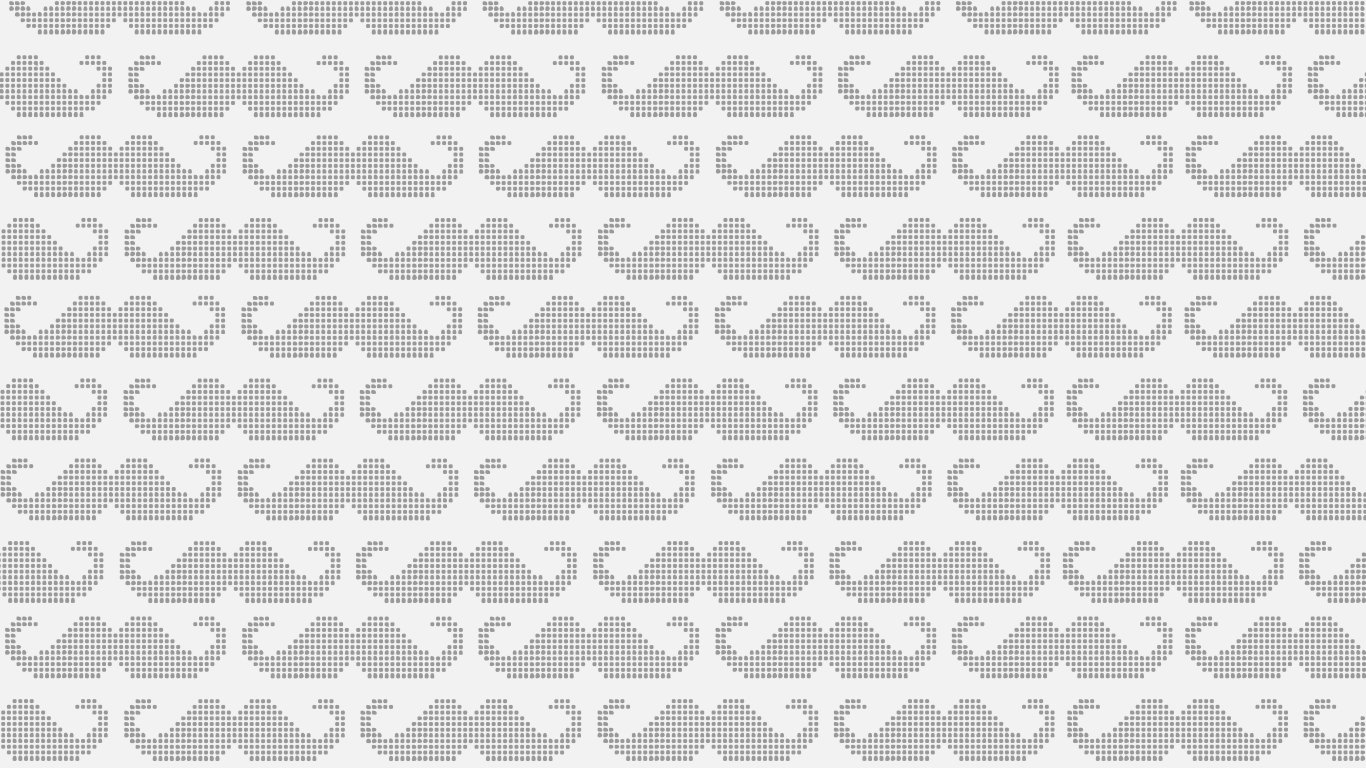
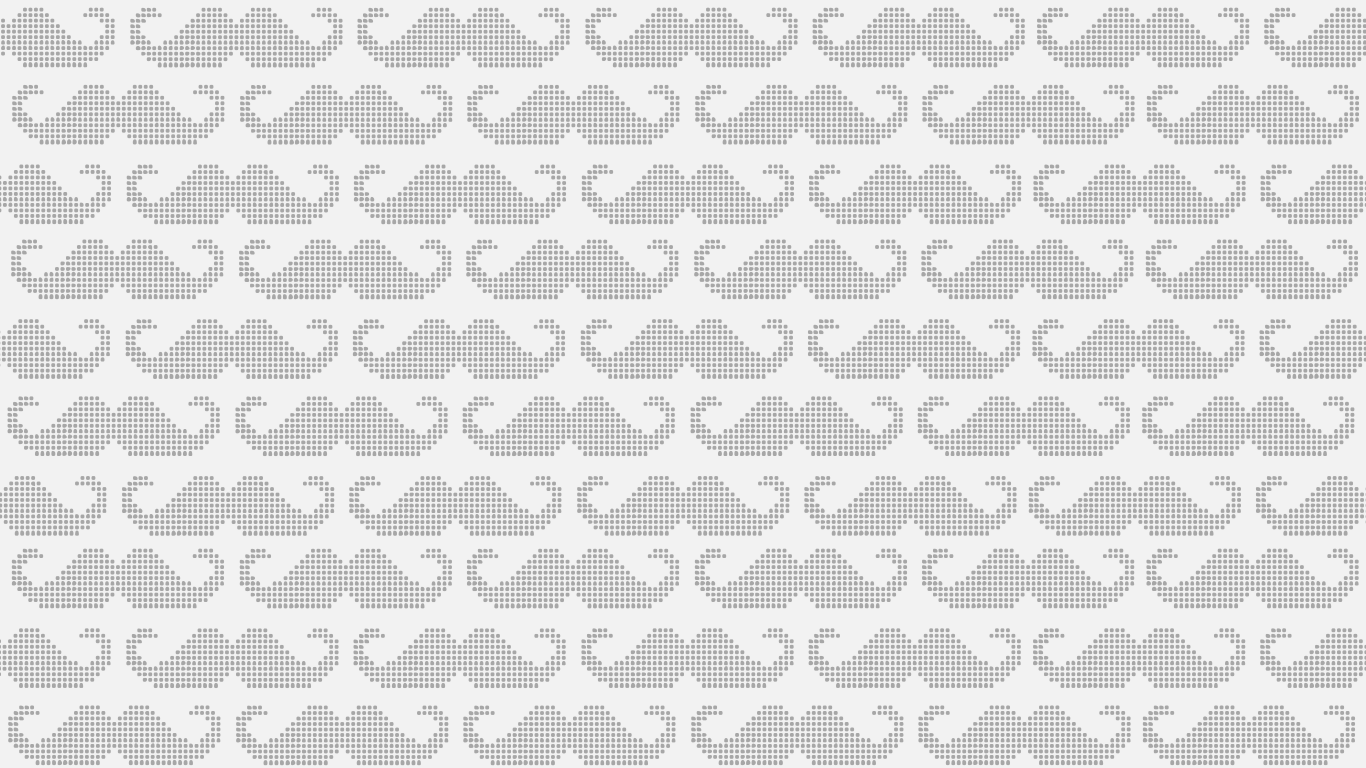
Bugfix repeat background KYM

diff --git a/public/css/style.css b/public/css/style.css
@@ -3,7 +3,7 @@ body {
     background-color:#e6e6e6;
     background-attachment:fixed;
     /*background-repeat:no-repeat;*/
-    background-repeat: repeat-x;
+    background-repeat: repeat;
     font-family: Verdana,Helvetica,sans-serif;
     color:black;
     font-size:12px;
